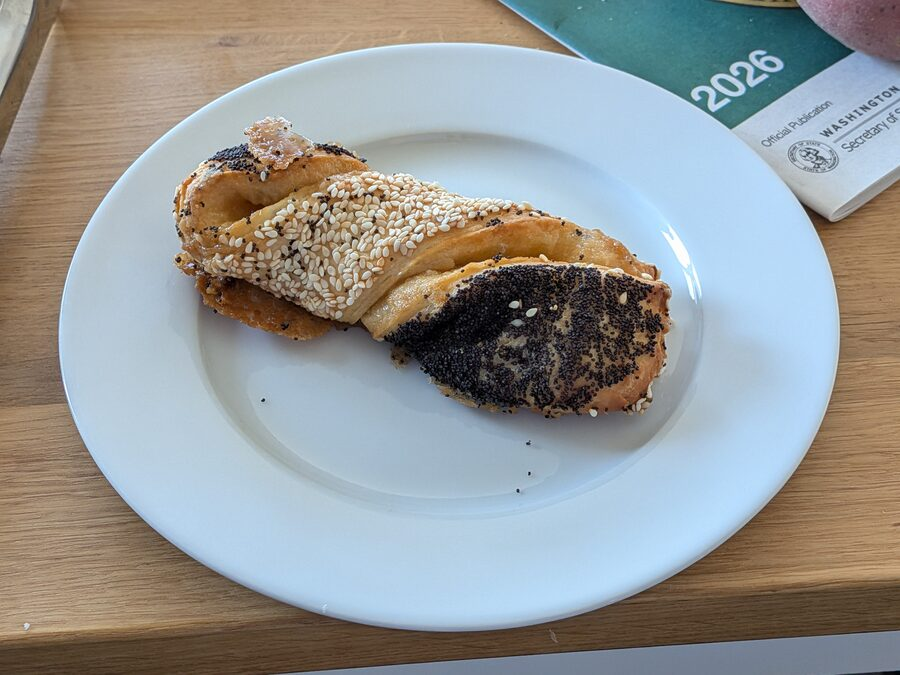
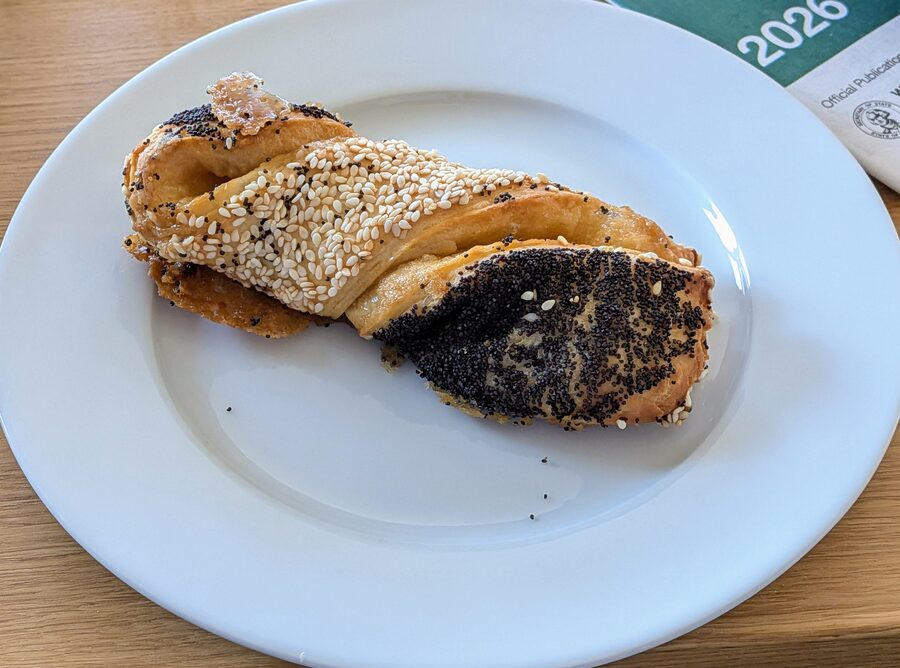
pics

diff --git a/recipes/pastry/frosnappers.md b/recipes/pastry/frosnappers.md
@@ -7,7 +7,7 @@ kind: recipe
 # Frøsnapper
 Adapted from [Cooking with Kathleen](https://youtu.be/9Z-5cVWrL2U), aiming for the frøsnapper from Nielsen's.
 
-<img src="../img/frosnapper_attempt_4.jpg" alt="My frøsnapper, attempt 4" width="300"/> <img src="../img/frosnapper_nielsens.jpg" alt="Nielsen's frøsnapper" width="300"/>
+<img src="../img/frosnapper_attempt_4.jpg" alt="My frøsnapper, attempt 4" height="240"/> <img src="../img/frosnapper_nielsens.jpg" alt="Nielsen's frøsnapper" height="240"/>
 
 Mine (attempt 4) on the left, Nielsen's on the right.
 
@@ -107,13 +107,13 @@ Be careful when shopping for sesame: You want something with a mild nutty flavor
 
 ## Keeping the shape
 
-This was my biggest challenge. I tried many things in the batch that worked:
+This was my biggest challenge. Most of these were in the batch that worked:
 - Reduced yeast (2 tsp → 1 tsp): This definitely helped
-- Rolling pin to squish them together more when shaping: Not sure if this helped
+- Rolling the seeded sheet flat before cutting, to squish the layers together: Not sure if this helped
 - Placed them side by side: I'm pretty sure this helped
 - Sealed the bottom edge with water: I'm not sure if this helped, but it was quick and didn't hurt
 - Pressed them into the parchment: I did this on previous attempts and it maybe helped a little bit, not a lot
-- Rolling pin the flat sides: I'm pretty sure this helped
+- Rolling the edges flat once they're on the tray: I'm pretty sure this helped
 - Water to "glue" any edges that were lifting after the proofing: I have no idea if this helped
 - Only 2 twists: trying to do more in other attempts I think partly caused the spring-back. Nielsen's does 2 as well. When attempt 3 (3 twists) unwound, the advice I got from Claude was to twist more, 5-6 turns. Fewer worked better
 - Chilling after shaping (proofing in the fridge): I tried this in one of the attempts and they still unwound. Proofing wants warmth and holding the shape wants cold, so the two goals pull against each other
